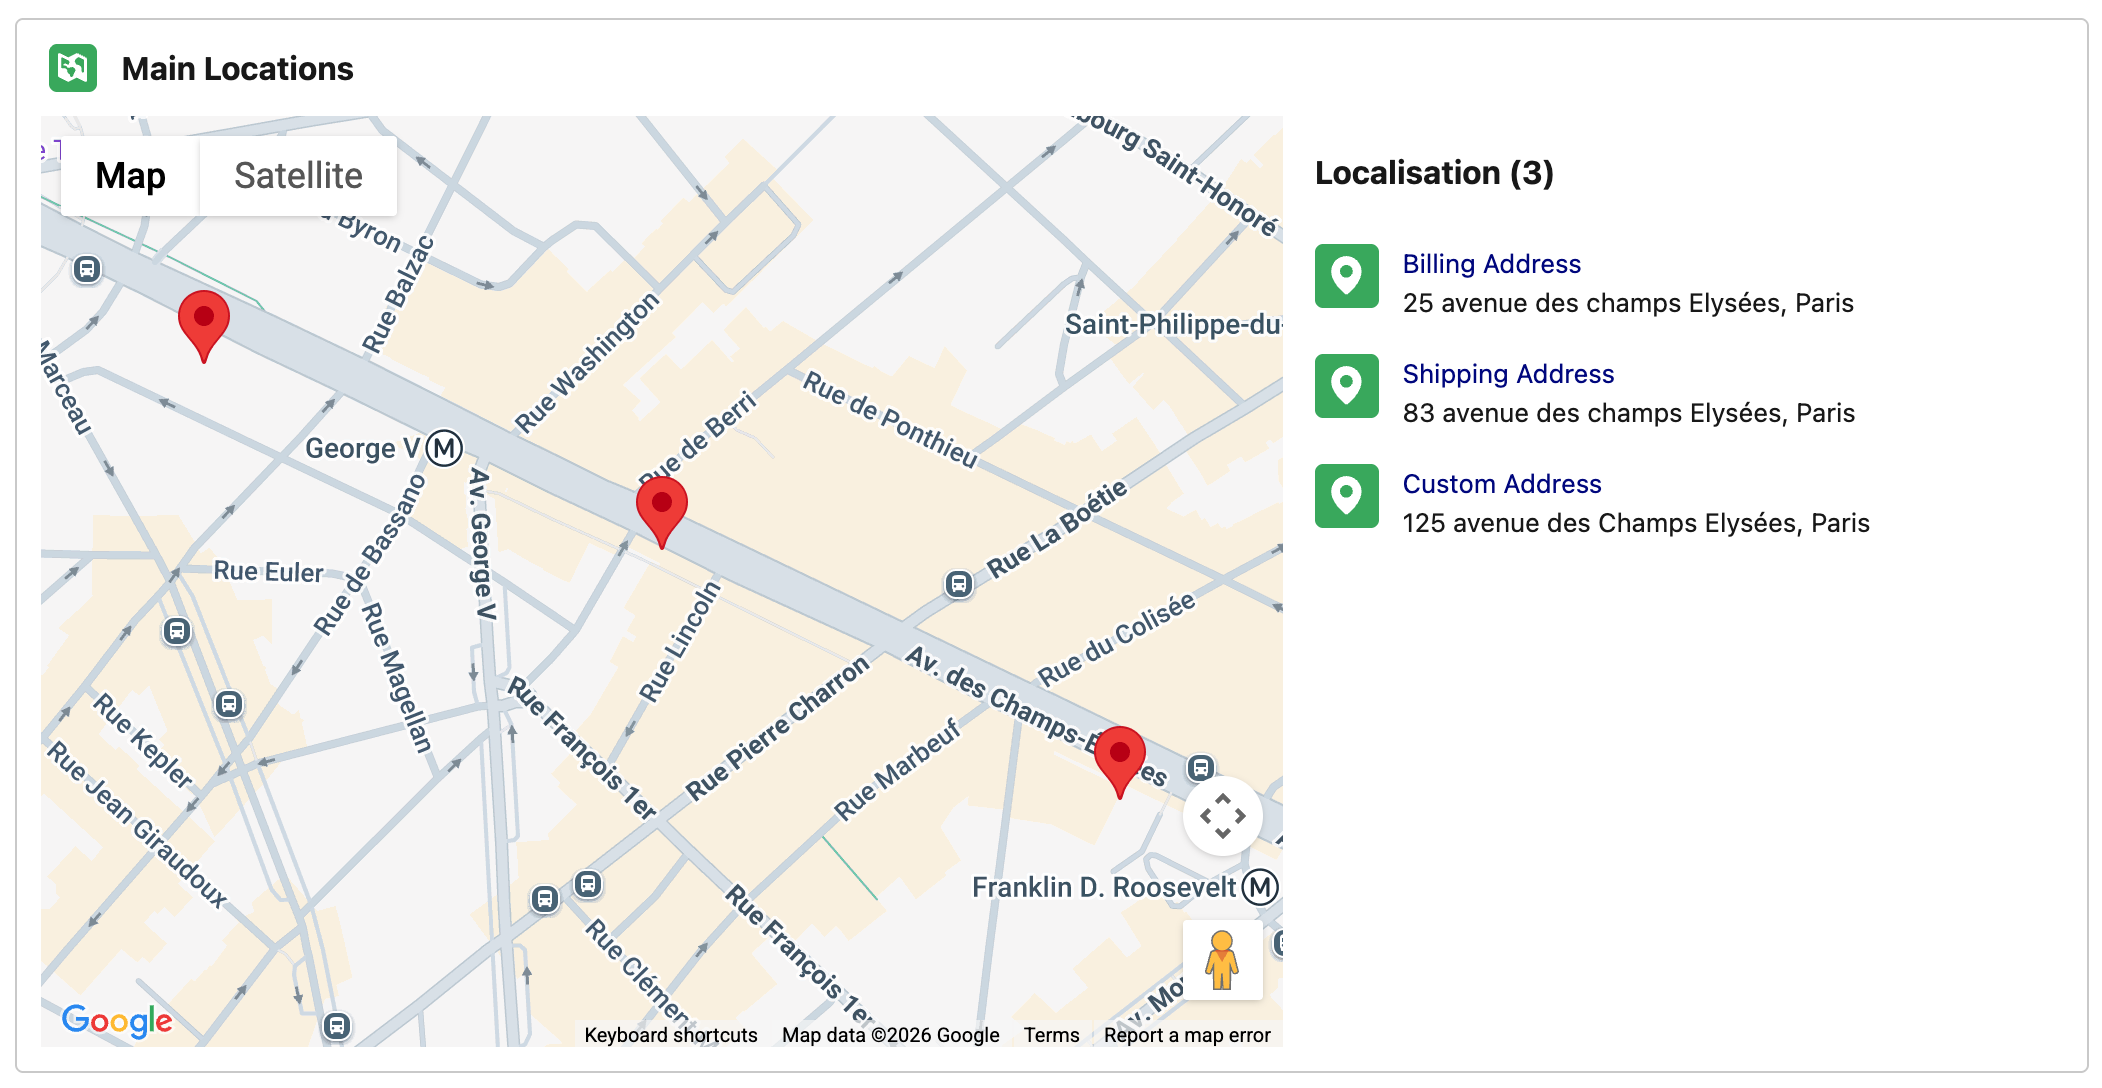
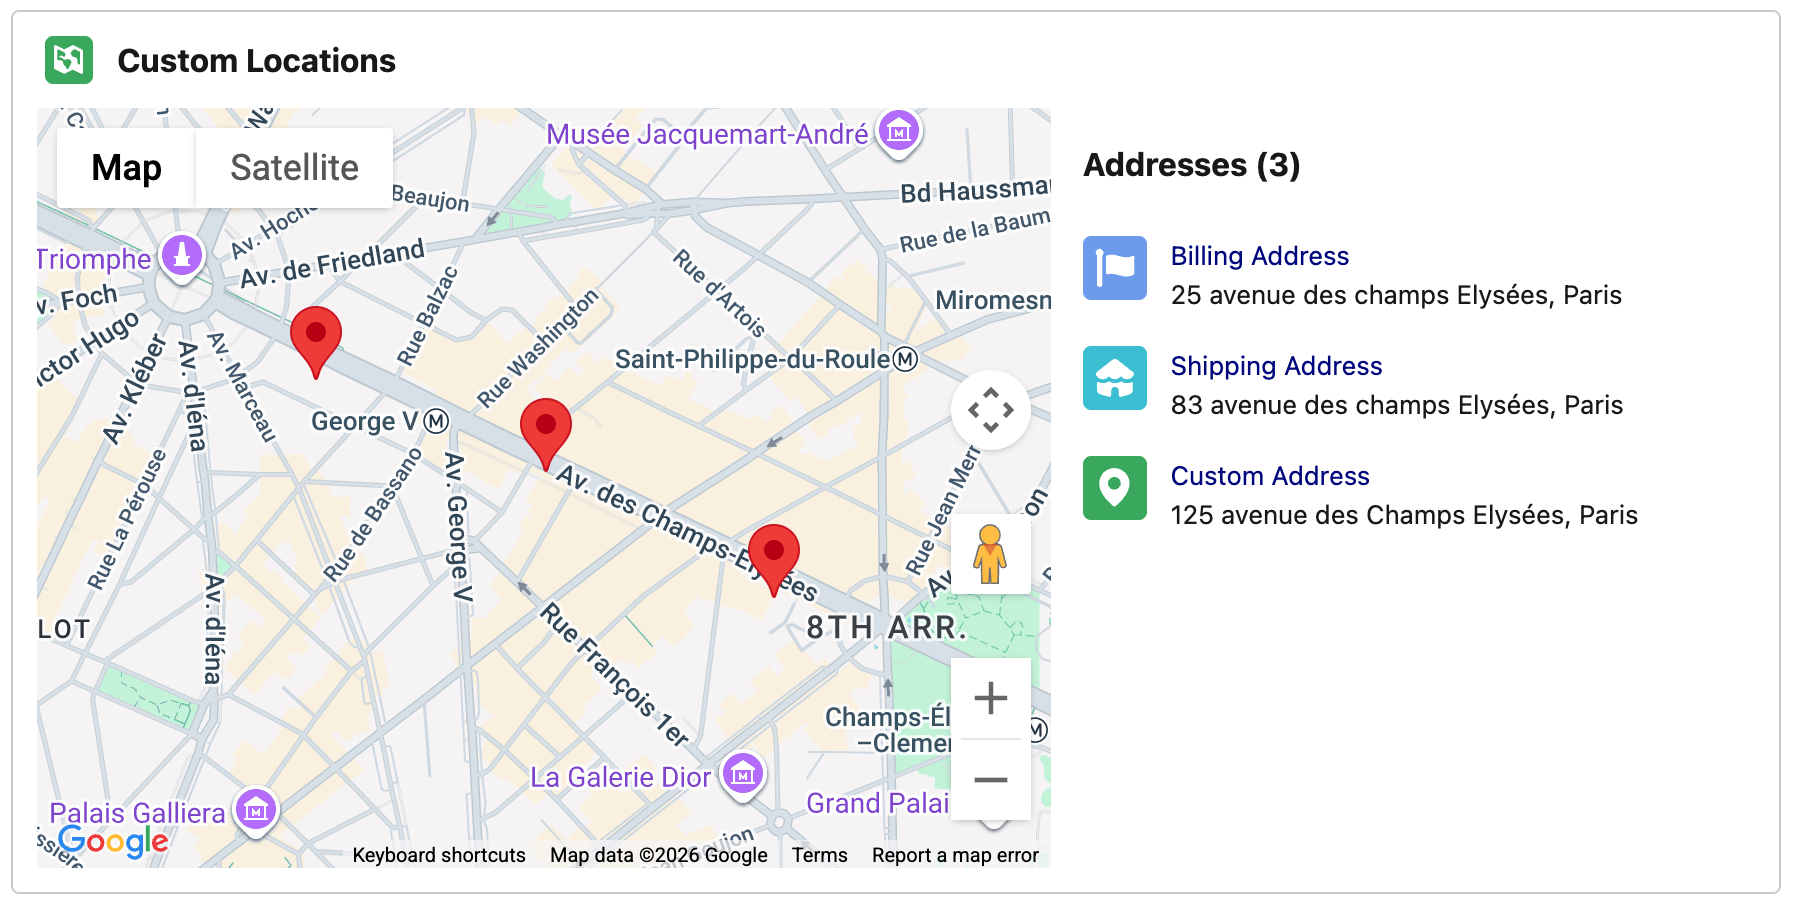
Minor fixes

Changed region(s): [[0.0, 0.0, 0.9989, 0.989]]

diff --git a/force-app/main/sfpegAddressMapCmp/lwc/sfpegAddressMapCmp/sfpegAddressMapCmp.js b/force-app/main/sfpegAddressMapCmp/lwc/sfpegAddressMapCmp/sfpegAddressMapCmp.js
@@ -165,9 +165,14 @@ export default class SfpegAddressMapCmp extends LightningElement {
             locationList.forEach(iterLoc => {
                 if (this.isDebug) console.log('wiredObject: processing location field', iterLoc.field);
                 const locDesc = this.initLocationFields(iterLoc.field,iterLoc.icon,data);
-                recordFieldList = [...recordFieldList, ...locDesc.fields];
-                this.locationFieldMap[locDesc.name] = locDesc;
-                console.log('wiredObject: location desc registered', JSON.stringify(locDesc));
+                if (this.locationFieldMap[locDesc.name]) {
+                    console.log('wiredObject: location desc already registered', locDesc.name);
+                }
+                else {
+                    recordFieldList = [...recordFieldList, ...locDesc.fields];
+                    this.locationFieldMap[locDesc.name] = locDesc;
+                    console.log('wiredObject: new location desc registered', JSON.stringify(locDesc));
+                }
             });
             this.recordFieldList = recordFieldList;
 
